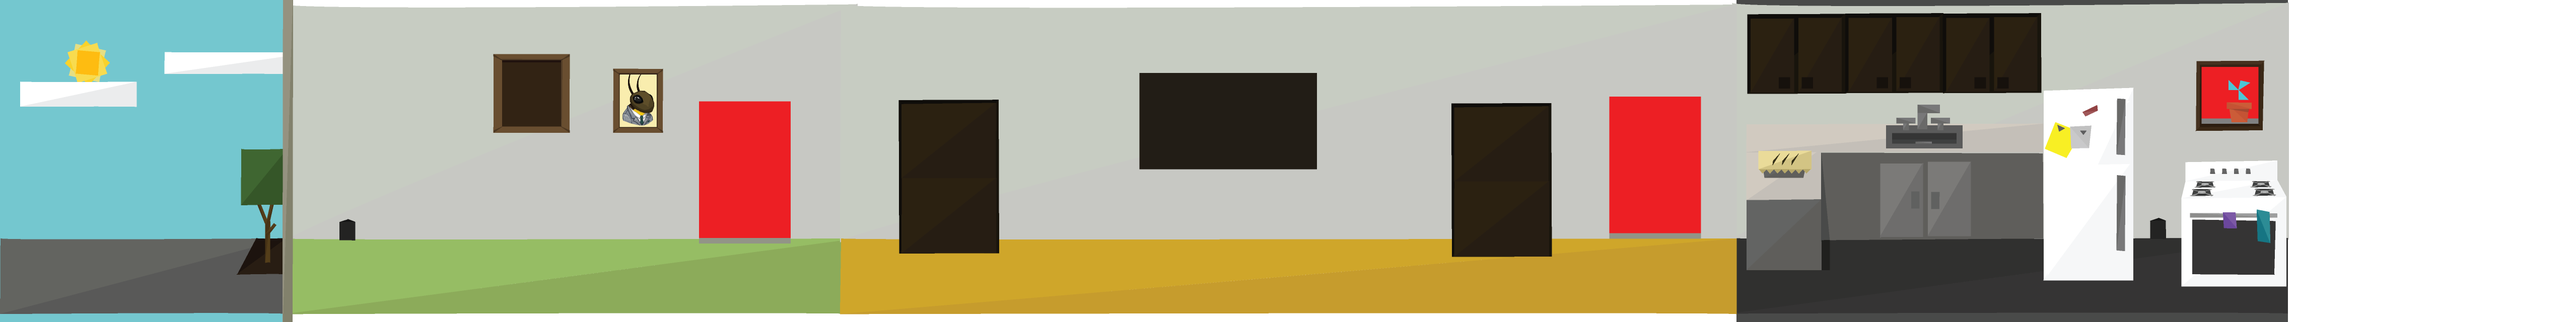
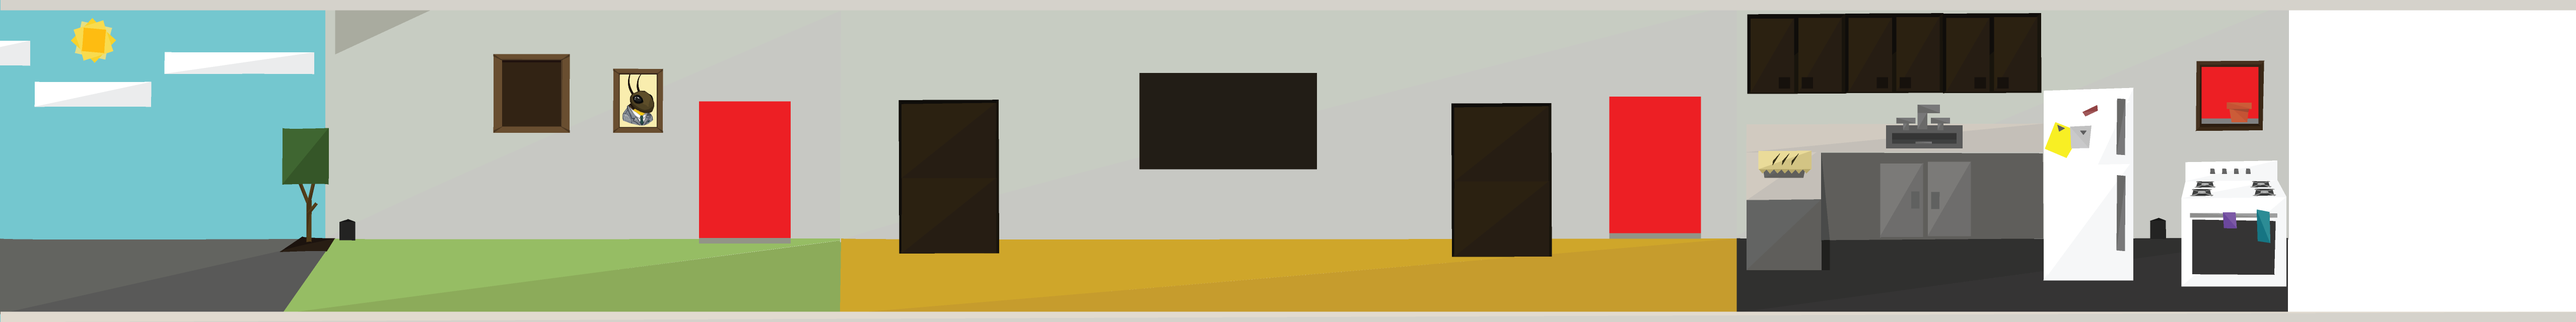
Add front door.

Changed region(s): [[0.0, 0.0, 1.0, 1.0], [0.0, 0.0625, 0.0622, 0.3438]]

diff --git a/apt-213.js b/apt-213.js
@@ -17,7 +17,11 @@ var manifest = {
 		"bowl-empty": "images/cat-bowl-empty.png",
 		"bowl-full": "images/cat-bowl-full.png",
 		"can": "images/cat-food-can.png",
-		"knock": "images/knock-2f.png"
+		"knock": "images/knock-2f.png",
+		"door-frame-back": "images/doorframe-back.png",
+		"door-frame-front": "images/doorframe-front.png",
+		"door-open": "images/door-open.png",
+		"door-closed": "images/door-closed.png"
 	},
 	"sounds": {
 		"cat-walk1": 		"audio/cat_walk1.wav",
@@ -121,8 +125,8 @@ function collideWithFurniture(entity) {
 }
 
 function constrainPlayerToFloor(entity) {
-	if (entity.x < 568) {
-		entity.x = 568;
+	if (entity.x < 668) {
+		entity.x = 668;
 	}
 	if (entity.x + entity.width > 4543) {
 		entity.x = 4543 - entity.width;
@@ -316,6 +320,9 @@ function(context) {
 	context.drawImage(apt213.images.get("tv"), 1108, 345);
 	context.drawImage(apt213.images.get("table-legs"), 2163, 472);
 	context.drawImage(apt213.images.get("table-top"), 2140, 410);
+	context.drawImage(apt213.images.get("door-frame-back"), 642, 20);
+	context.drawImage(apt213.images.get("door-frame-front"), 536, 20);
+	context.drawImage(apt213.images.get("door-closed"), 596, 228);
 });
 
 //**************** SCENE 2 *****************************************
@@ -433,6 +440,9 @@ function(context) {
 	context.drawImage(apt213.images.get("tv"), 1108, 345);
 	context.drawImage(apt213.images.get("table-legs"), 2163, 472);
 	context.drawImage(apt213.images.get("table-top"), 2140, 410);
+	context.drawImage(apt213.images.get("door-frame-back"), 642, 20);
+	context.drawImage(apt213.images.get("door-frame-front"), 536, 20);
+	context.drawImage(apt213.images.get("door-closed"), 596, 228);
 });
 
 //**************** SCENE 3 *****************************************
@@ -442,7 +452,7 @@ function(context) {
 function setupScene3() {
 	player = owl;
 	scene3.camera = new Splat.EntityBoxCamera(player, 400, canvas.height, canvas.width/2, canvas.height/2);
-	scene3.goal = new Splat.Entity(569, 493, 20, 70);
+	scene3.goal = new Splat.Entity(669, 493, 20, 70);
 	scene3.knock = Splat.makeAnimation(apt213.images.get("knock"), 2, 100);
 	scene3.startTimer("knock");
 	scene3.knockCount = 0;
@@ -495,6 +505,9 @@ function(context) {
 
 	context.drawImage(apt213.images.get("table-legs"), 2163, 472);
 	context.drawImage(apt213.images.get("table-top"), 2140, 410);
+	context.drawImage(apt213.images.get("door-frame-back"), 642, 20);
+	context.drawImage(apt213.images.get("door-frame-front"), 536, 20);
+	context.drawImage(apt213.images.get("door-closed"), 596, 228);
 
 	var knockGap = 100;
 	if (scene3.knockCount === 0) {
@@ -576,6 +589,9 @@ function(context) {
 	context.drawImage(apt213.images.get("tv"), 1108, 345);
 	context.drawImage(apt213.images.get("table-legs"), 2163, 472);
 	context.drawImage(apt213.images.get("table-top"), 2140, 410);
+	context.drawImage(apt213.images.get("door-frame-back"), 642, 20);
+	context.drawImage(apt213.images.get("door-frame-front"), 536, 20);
+	context.drawImage(apt213.images.get("door-open"), 650, 230);
 });
 
 //**************** CREDITS ***********************
